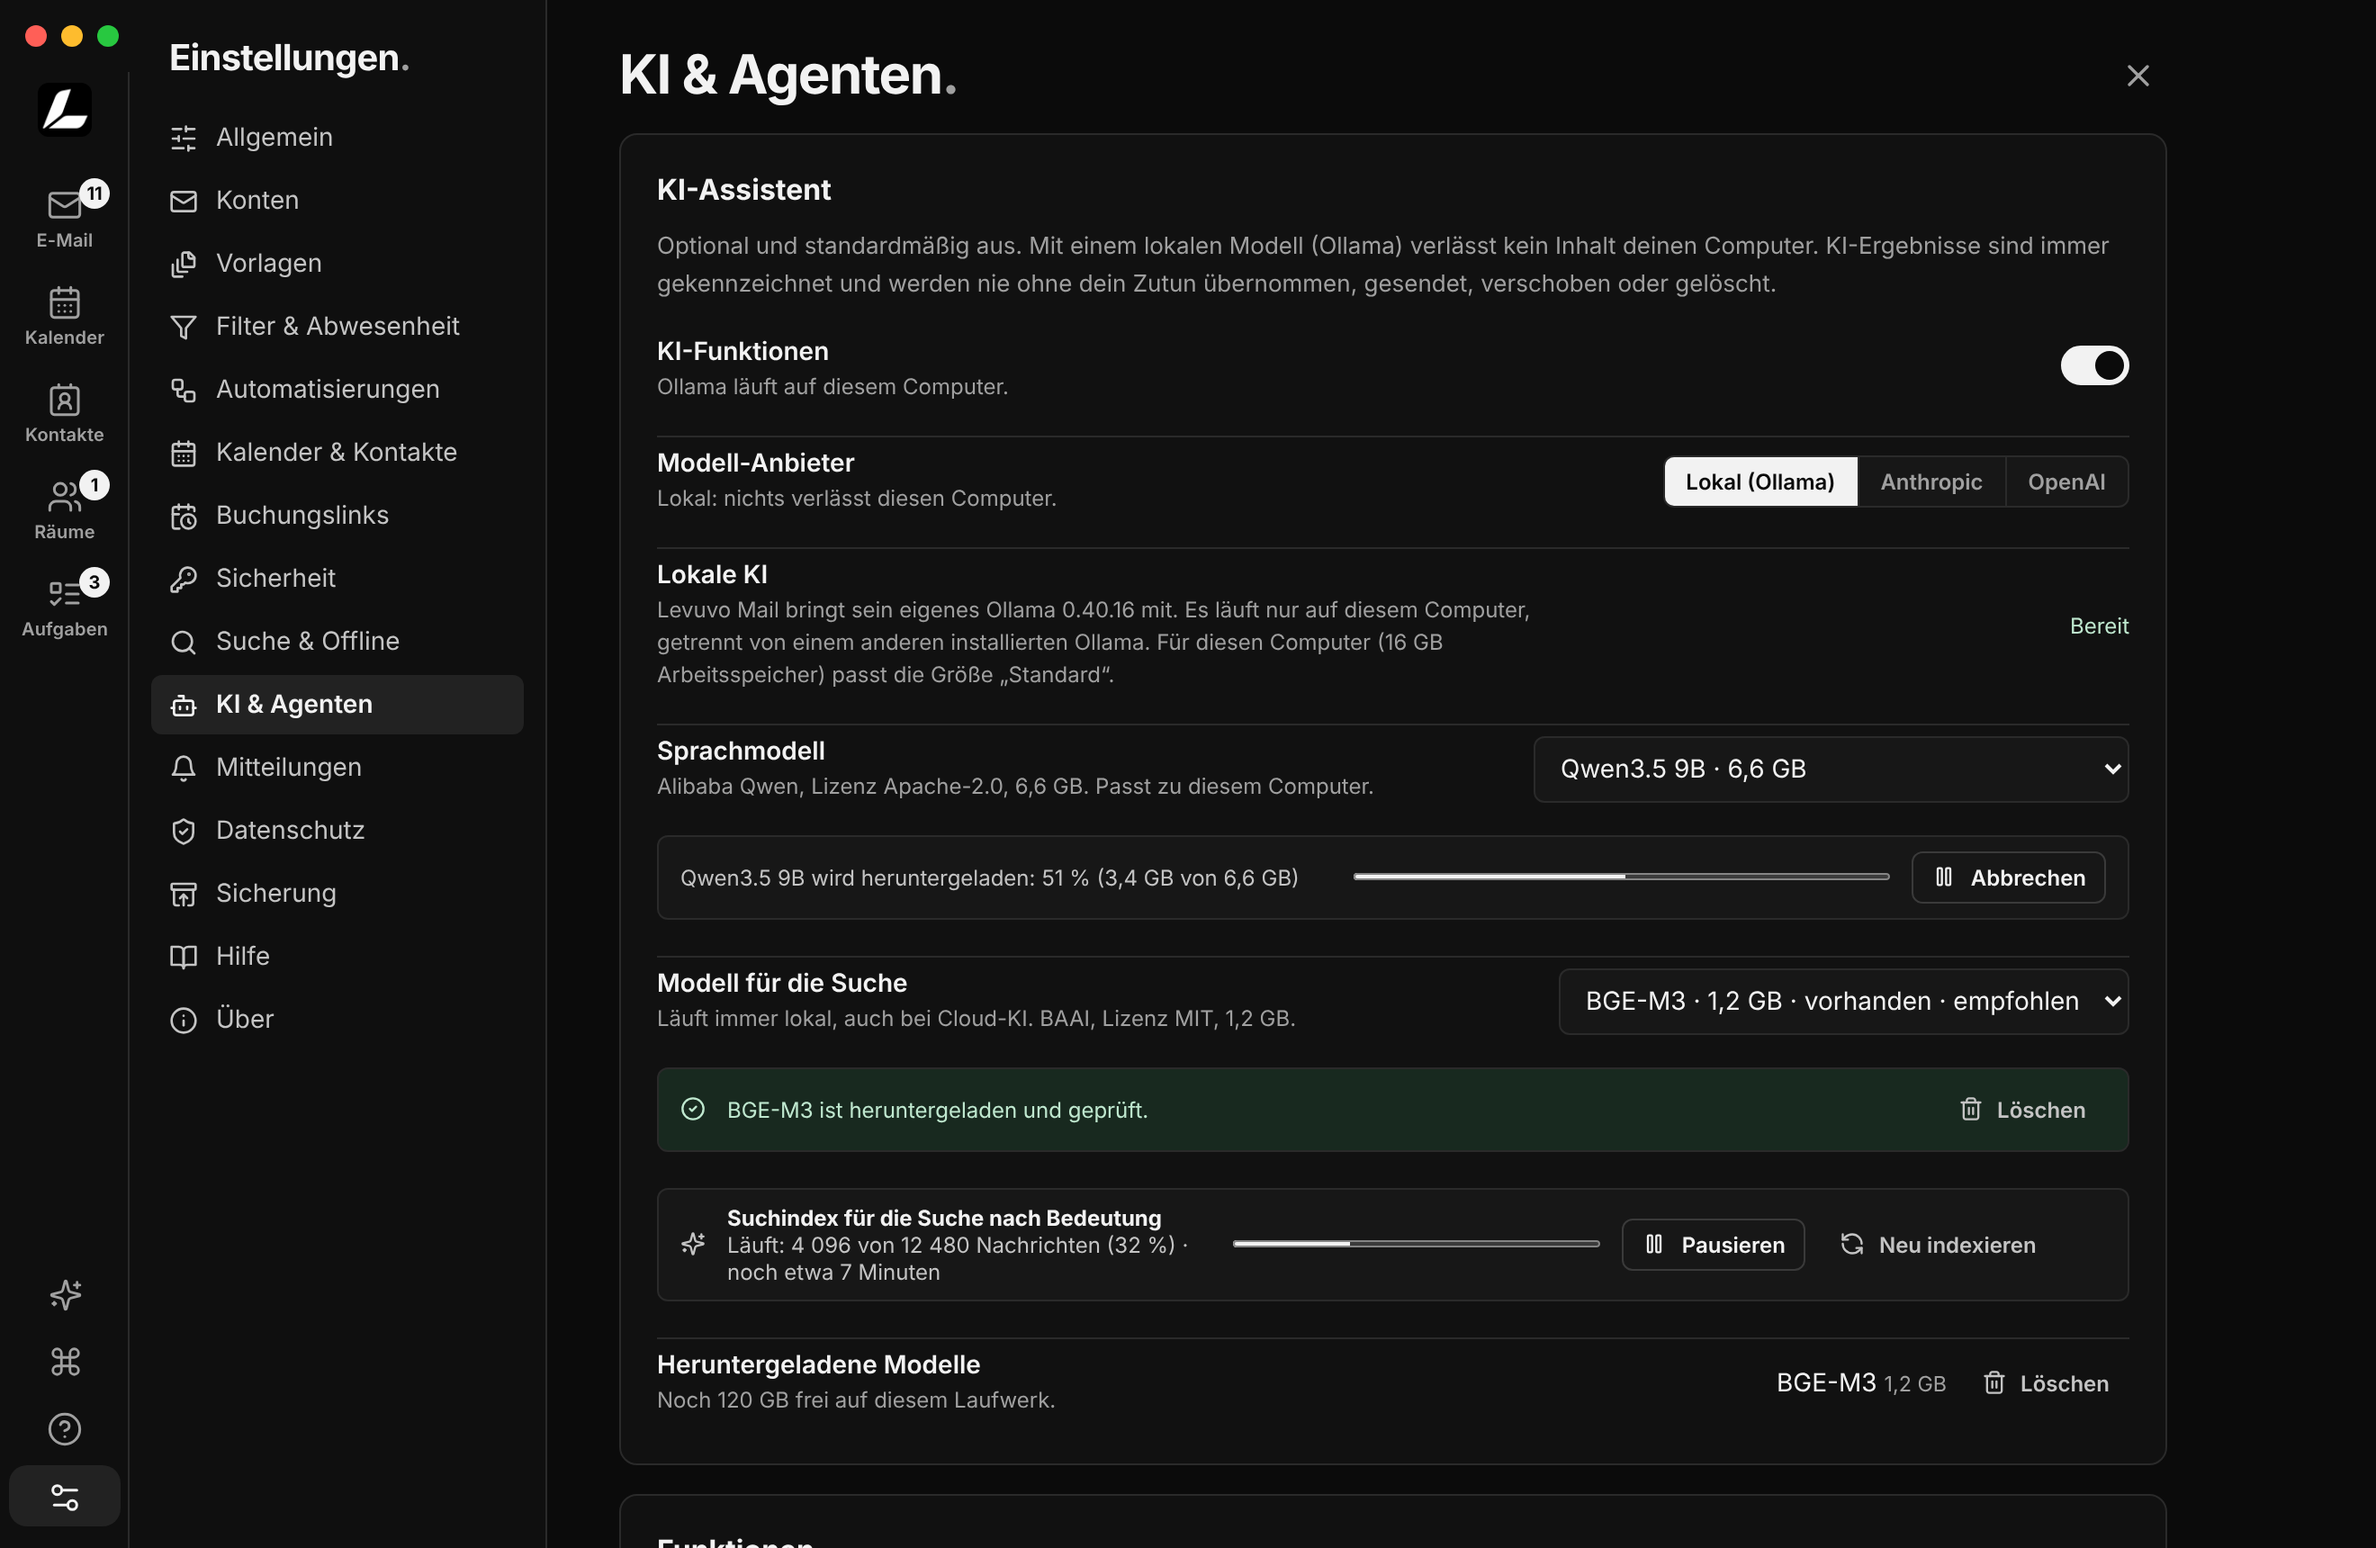
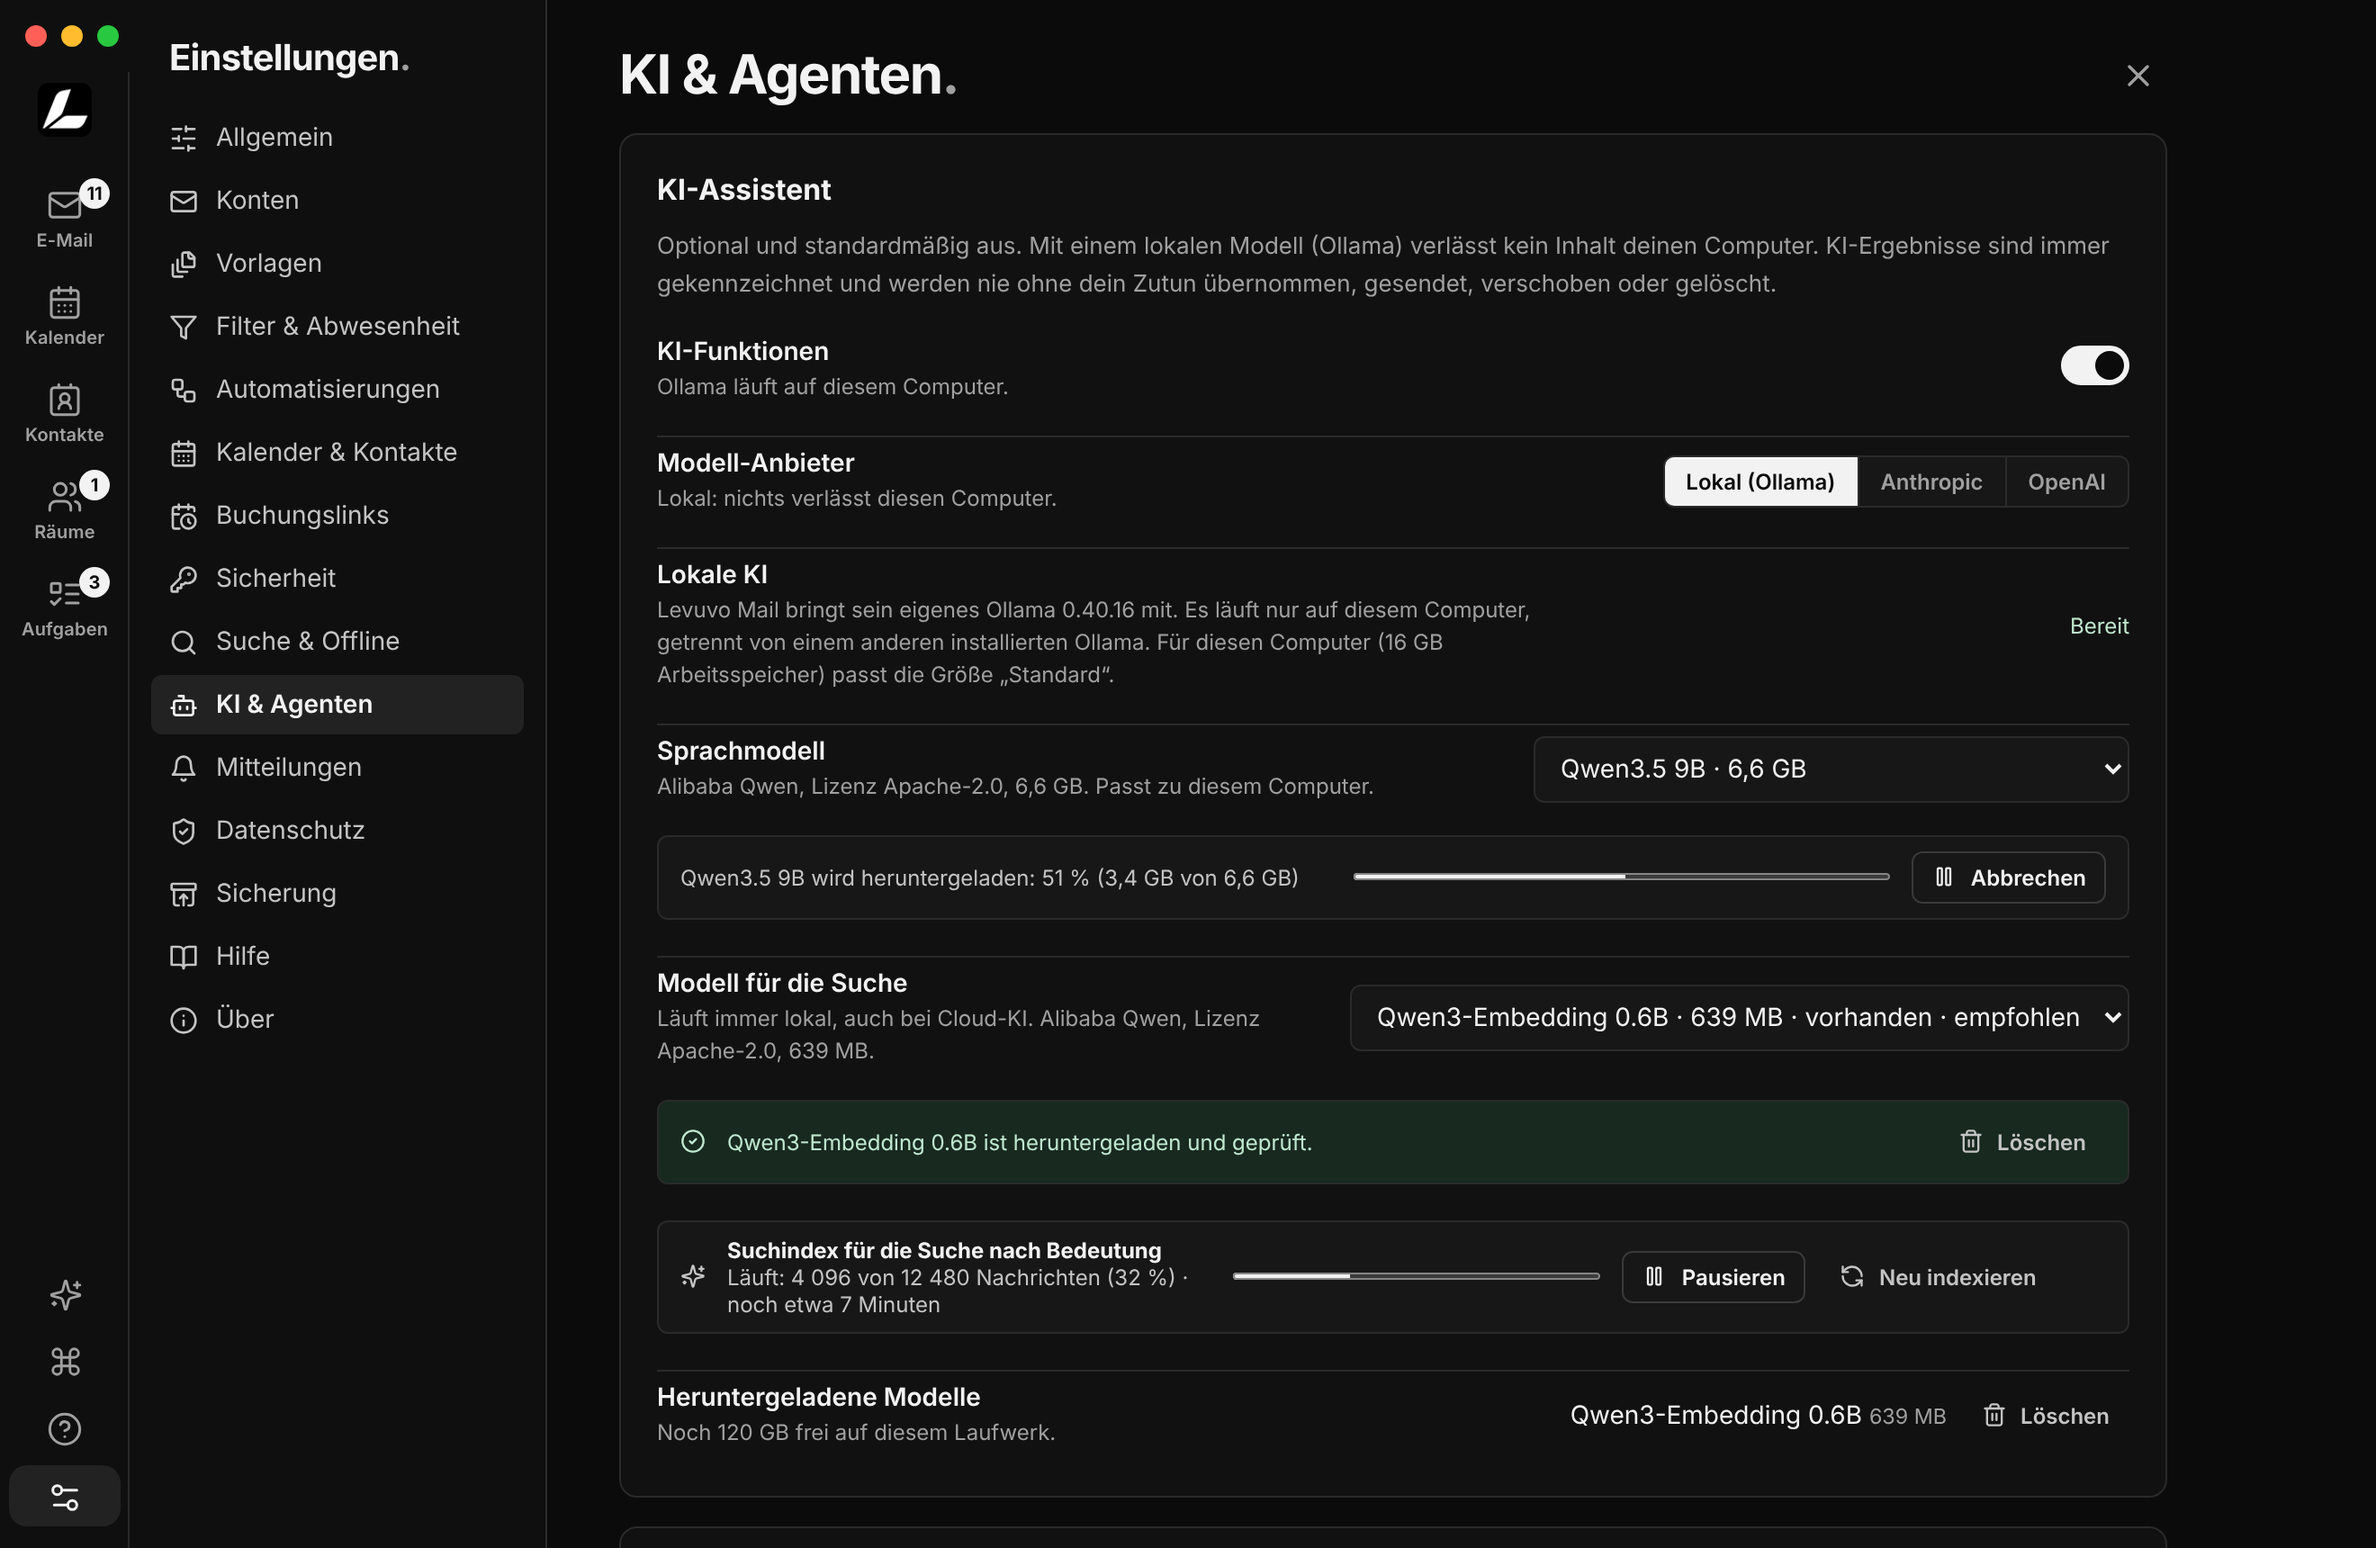
chore(release): 2.6.1
Bump version, turn Unreleased (#111 search model, #112 date in the assistant, #113 audit fixes) into 2.6.1;
manual screenshots retaken (search model, contacts). The 2.6.0 draft stays as it is.

Claude-Session: https://claude.ai/code/session_011tY7T9NBJWyf5hHERHFRwZ

diff --git a/RELEASE-CHECKLIST.md b/RELEASE-CHECKLIST.md
@@ -1,4 +1,4 @@
-# Levuvo Mail 2.6.0 – acceptance per platform
+# Levuvo Mail 2.6.1 – acceptance per platform
 
 Tick off on **macOS arm64, Windows arm64 and Windows x64** each. Everything that can be tested without
 the native operating system has already been checked automatically (see `VALIDATION-REPORT.md`).
@@ -11,7 +11,7 @@ UI labels are given in English with the German label in parentheses where useful
 - [ ] Optionally with test servers: `npm run test:integration` and `npm run test:e2e`
 - [ ] Installer starts; no Gatekeeper/SmartScreen warning for signed builds
 - [ ] The installed app contains the AI runtime (`resources/ai-runtime/python`); Settings → AI & agents shows the AI component as available
-- [ ] Settings → About shows 2.6.0, legal notice (Impressum) filled in
+- [ ] Settings → About shows 2.6.1, legal notice (Impressum) filled in
 
 ## User manual
 - [ ] `docs/manual` (German and English) covers every new or changed feature of this release; labels match the app
@@ -97,7 +97,7 @@ UI labels are given in English with the German label in parentheses where useful
 
 ## Release
 - [ ] `release:manifest` and `release:verify` successful
-- [ ] Signed builds: update files uploaded, test update 2.6.0 → 2.6.1 run through once
+- [ ] Signed builds: update files uploaded, test update 2.6.1 → 2.6.2 run through once
 - [ ] Privacy notice reviewed legally, legal notice (Impressum) filled in
 
 ## Compliance (every release)

diff --git a/RELEASE-KIT.md b/RELEASE-KIT.md
@@ -1,4 +1,4 @@
-# Levuvo Mail 2.6.0 – release kit
+# Levuvo Mail 2.6.1 – release kit
 
 The ZIP contains the complete source code, the locked dependency list (`package-lock.json`)
 and the build configuration for three platforms. **Finished DMG/EXE files are not included**:
@@ -6,9 +6,9 @@ they must be built on the respective operating system (native keychain module).
 
 | Platform | File | Build machine |
 |---|---|---|
-| macOS Apple Silicon | `Levuvo-Mail-2.6.0-arm64.dmg` (+ `.zip` for updates) | Mac with Apple Silicon |
-| Windows 11 ARM64 | `Levuvo-Mail-Setup-2.6.0-arm64.exe` | Windows ARM64 (e.g. UTM) |
-| Windows x64 | `Levuvo-Mail-Setup-2.6.0-x64.exe` | Windows Intel/AMD |
+| macOS Apple Silicon | `Levuvo-Mail-2.6.1-arm64.dmg` (+ `.zip` for updates) | Mac with Apple Silicon |
+| Windows 11 ARM64 | `Levuvo-Mail-Setup-2.6.1-arm64.exe` | Windows ARM64 (e.g. UTM) |
+| Windows x64 | `Levuvo-Mail-Setup-2.6.1-x64.exe` | Windows Intel/AMD |
 
 ## A) Test installers (unsigned, without auto-update)
 

diff --git a/CHANGELOG.md b/CHANGELOG.md
@@ -1,6 +1,8 @@
 # Changelog
 
-## Unreleased
+## 2.6.1 – 20 November 2026
+
+> **User manual included:** the German and English user manual are attached to this release as PDFs (`Levuvo-Mail-Handbuch-2.6.1.pdf`, `Levuvo-Mail-Manual-2.6.1.pdf`) and are also in the app under Settings → Help. This version also contains everything from 2.6.0 (see below).
 
 ### Reliability and privacy (audit of 20 November 2026)
 - **A scheduled mail without a copy in "Sent" stays in "Drafts":** if a scheduled mail went out but its copy could not be saved in "Sent", the draft was moved to the trash anyway and nothing told you. It now stays in "Drafts" with the note "Sent, but the copy in Sent could not be saved", so you can see what went out; delete it when you no longer need it. It is never sent again. (Manual: Write and reply)

diff --git a/README-WINDOWS.md b/README-WINDOWS.md
@@ -1,4 +1,4 @@
-# Levuvo Mail 2.6.0 – Windows ARM64 and x64
+# Levuvo Mail 2.6.1 – Windows ARM64 and x64
 
 The keychain module is native: **always build on the target architecture**.
 
@@ -11,7 +11,7 @@ npm.cmd run ai:runtime -- --arch arm64             # AI runtime for the installe
 npm.cmd run desktop:win:arm64                      # or desktop:win:x64
 ```
 
-Result: `release\Levuvo-Mail-Setup-2.6.0-arm64.exe` or `-x64.exe`.
+Result: `release\Levuvo-Mail-Setup-2.6.1-arm64.exe` or `-x64.exe`.
 Build the project locally (e.g. `C:\Users\<Name>\Levuvo\levuvo-mail`), not from a network drive.
 
 Signed build with auto-update: `npm.cmd run release:signed:win:x64` – requirements in `RELEASE-KIT.md`.

diff --git a/SECURITY.md b/SECURITY.md
@@ -60,7 +60,7 @@ Reviewed 2026-11-19 (`apps/server/src/protected-message.mjs`). The message, its 
 
 ## Known open items
 
-State 2.6.0 (internal use only):
+State 2.6.1 (internal use only):
 
 - **Unsigned internal test builds:** deliberately without code signing and without auto-update; Gatekeeper/SmartScreen warn. Signed releases need the certificates from `RELEASING.md`.
 - **Build tool dependencies** of `electron-builder` with known advisories, relevant only at build time; see the audit summary of the respective CI run.

diff --git a/README.md b/README.md
@@ -1,4 +1,4 @@
-# Levuvo Mail 2.6.0
+# Levuvo Mail 2.6.1
 
 Email, calendar and contacts for **macOS (Apple Silicon)** and **Windows (ARM64, x64)**.
 *Less effort. More impact.*
